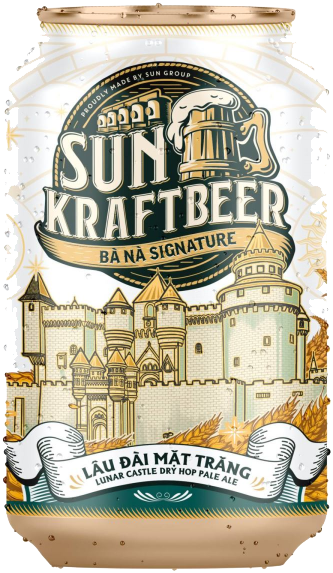
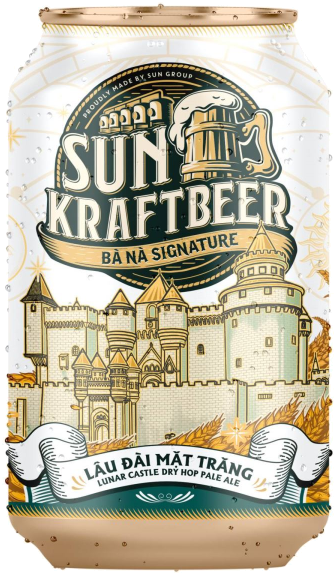
Lon bia xoay lac luan phien, sua tach nen lon Lau Dai
Ba loai tu doi cho nhau moi 4,6 giay. Doi loai thi lon quay mot vong,
anh duoc thay dung luc lon quay ngang nen khong thay anh nhay khung.
Bam the chon tay thi dung vong tu dong.

Anh lon giua man hinh tach thanh bon lop, MOI LOP MOT NGUON transform:
nghieng theo con tro (rAF), hien len, lac, quay. Truoc day .dn-ly vua
mang hoat anh CSS vua nhan transform tu vong rAF — hoat anh luon de
style, nen phan nghieng theo con tro chua tung chay.

Lon Lau Dai Mat Trang bi tach nen an mat ria: than lon trang, cho sang
nhat chi 246 so voi nen 255, ma nguong mac dinh la 236. Chay lai voi
--nguong=250 --vien=250, lon giu du dang.

Da kiem tra tren trinh duyet: bon lop dung hoat anh, .dn-ly khong con
hoat anh CSS, ba anh tai duoc, vong luan phien dung thu tu moi 4,58s,
cu xoay bat sau 92ms va thay anh o 373ms.

diff --git a/src/components/ManHinhDangNhap.tsx b/src/components/ManHinhDangNhap.tsx
@@ -286,6 +286,17 @@ export default function ManHinhDangNhap({
     laudai: false,
     atlas: false,
   });
+  /**
+   * Loại ĐANG HIỆN trên màn hình, chạy sau `loai` đúng nửa nhịp xoay.
+   *
+   * Tách khỏi `loai` để đổi ảnh vào đúng lúc lon quay ngang, gần như không
+   * nhìn thấy mặt lon — đổi ngay lúc bấm thì thấy ảnh nhảy khựng một cái.
+   */
+  const [loaiHien, setLoaiHien] = useState<LoaiBia>("caubang");
+  const [dangXoay, setDangXoay] = useState(false);
+  /** Vòng luân phiên tự động, người dùng tự bấm chọn thì dừng. */
+  const [tuDong, setTuDong] = useState(true);
+  const lanDau = useRef(true);
   const nenRef = useRef<HTMLDivElement>(null);
   const lyRef = useRef<HTMLDivElement>(null);
   const lopTruocRef = useRef<HTMLDivElement>(null);
@@ -293,6 +304,50 @@ export default function ManHinhDangNhap({
   const botRef = useRef<HTMLDivElement>(null);
 
   const mau = MAU_BIA[loai];
+
+  /*
+   * Ba loại bia luân phiên, mỗi loại một nhịp rồi chuyển.
+   *
+   * Bỏ nhịp khi tab bị ẩn: quay ở tab người ta không nhìn chỉ tốn pin, mà quay
+   * xong quay lại thì loại đang hiện đã trôi đi đâu mất.
+   */
+  useEffect(() => {
+    if (!tuDong) return;
+    if (window.matchMedia("(prefers-reduced-motion: reduce)").matches) return;
+    const id = window.setInterval(() => {
+      if (document.hidden) return;
+      setLoai((cu) => {
+        const i = BIA.findIndex((b) => b.id === cu);
+        return BIA[(i + 1) % BIA.length].id;
+      });
+    }, 4600);
+    return () => window.clearInterval(id);
+  }, [tuDong]);
+
+  /*
+   * Đổi loại thì quay lon một vòng, thay ảnh vào giữa cú quay.
+   *
+   * Chỉ phụ thuộc `loai` chứ không phụ thuộc `loaiHien`: thêm `loaiHien` vào
+   * thì effect chạy lại ngay sau khi thay ảnh, và phần dọn dẹp sẽ hủy mất hẹn
+   * giờ tắt hiệu ứng, lon kẹt lại giữa cú quay.
+   */
+  useEffect(() => {
+    if (lanDau.current) {
+      lanDau.current = false;
+      return;
+    }
+    if (window.matchMedia("(prefers-reduced-motion: reduce)").matches) {
+      setLoaiHien(loai);
+      return;
+    }
+    setDangXoay(true);
+    const giua = window.setTimeout(() => setLoaiHien(loai), 330);
+    const xong = window.setTimeout(() => setDangXoay(false), 680);
+    return () => {
+      window.clearTimeout(giua);
+      window.clearTimeout(xong);
+    };
+  }, [loai]);
 
   /** Bọt bia bay lên: sinh liên tục rồi tự dọn khi bay hết màn hình. */
   useEffect(() => {
@@ -522,17 +577,27 @@ export default function ManHinhDangNhap({
           className="dn-ly h-[58vh] max-h-[560px] w-auto"
           style={{ aspectRatio: "280 / 400" }}
         >
-          {anhHong[loai] ? (
-            <LyBia loai={loai} />
-          ) : (
-            <img
-              src={ANH_LON[loai]}
-              alt={`Lon ${BIA.find((b) => b.id === loai)?.ten ?? ""}`}
-              className="h-full w-full object-contain"
-              style={{ filter: "drop-shadow(0 30px 60px rgba(0,0,0,0.55))" }}
-              onError={() => setAnhHong((t) => ({ ...t, [loai]: true }))}
-            />
-          )}
+          {/* Ba lớp lồng nhau, mỗi lớp một chuyển động: hiện lên, lắc, quay khi
+              đổi loại. Phải tách vì hoạt ảnh CSS đè transform đặt bằng style —
+              gộp lại là mất phần nghiêng theo con trỏ mà vòng rAF ghi vào
+              `.dn-ly`. Xem chú thích trong index.css. */}
+          <div className="dn-vao">
+            <div className="dn-lac">
+              <div className={`dn-xoay ${dangXoay ? "dn-dang-xoay" : ""}`}>
+                {anhHong[loaiHien] ? (
+                  <LyBia loai={loaiHien} />
+                ) : (
+                  <img
+                    src={ANH_LON[loaiHien]}
+                    alt={`Lon ${BIA.find((b) => b.id === loaiHien)?.ten ?? ""}`}
+                    className="h-full w-full object-contain"
+                    style={{ filter: "drop-shadow(0 30px 60px rgba(0,0,0,0.55))" }}
+                    onError={() => setAnhHong((t) => ({ ...t, [loaiHien]: true }))}
+                  />
+                )}
+              </div>
+            </div>
+          </div>
         </div>
       </div>
 
@@ -638,7 +703,12 @@ export default function ManHinhDangNhap({
                   return (
                     <button
                       key={b.id}
-                      onClick={() => setLoai(b.id)}
+                      onClick={() => {
+                        // Đã chọn tay thì đừng để vòng tự động cướp mất sau
+                        // vài giây — người ta bấm là muốn xem đúng lon đó.
+                        setTuDong(false);
+                        setLoai(b.id);
+                      }}
                       className="dn-kinh group relative w-[124px] cursor-pointer rounded-[24px] p-3 pt-6 text-center transition-all duration-300"
                       style={{
                         borderColor: dangChon ? b.nhan : undefined,
@@ -675,7 +745,7 @@ export default function ManHinhDangNhap({
                 })}
               </div>
               <p className="text-[0.7rem] uppercase tracking-[0.15em] text-white/50">
-                Chọn để đổi tông màn hình
+                {tuDong ? "Ba vị bia luân phiên · bấm để giữ lại" : "Bấm để đổi tông màn hình"}
               </p>
             </div>
 

diff --git a/src/index.css b/src/index.css
@@ -281,19 +281,71 @@
   to   { opacity: 1; transform: none; }
 }
 
-@keyframes dn-noi {
-  0%, 100% { transform: translateY(0); }
-  50%      { transform: translateY(-18px); }
+/*
+   Lon giữa màn hình chồng bốn lớp, MỖI LỚP GIỮ ĐÚNG MỘT NGUỒN transform:
+
+     .dn-ly    nghiêng theo con trỏ, do vòng requestAnimationFrame ghi thẳng
+     .dn-vao   hiện lên lúc mới vào trang
+     .dn-lac   lắc và nổi lên xuống không ngừng
+     .dn-xoay  quay một vòng mỗi khi đổi loại bia
+
+   Phải tách ra vì hoạt ảnh CSS luôn ĐÈ transform đặt bằng style. Trước đây
+   `.dn-ly` vừa mang hoạt ảnh vừa nhận transform từ vòng rAF, nên phần nghiêng
+   theo con trỏ không bao giờ hiện ra. */
+.dn-vao {
+  animation: dn-hien-len 1.2s ease-out 0.2s both;
+  height: 100%;
+  width: 100%;
 }
 
-.dn-ly {
-  animation: dn-hien-len 1.2s ease-out 0.2s both, dn-noi 6s ease-in-out 1.4s infinite;
+/* Lon lắc nhẹ không ngừng, như đang lơ lửng chứ không đứng chết một chỗ.
+   Gốc xoay đặt gần đáy lon để trông như lon đung đưa trên chân, không phải
+   xoay quanh giữa thân. */
+@keyframes dn-lac {
+  0%,
+  100% {
+    transform: rotate(-2.6deg) translateY(0);
+  }
+  50% {
+    transform: rotate(2.6deg) translateY(-16px);
+  }
+}
+.dn-lac {
+  animation: dn-lac 6.5s ease-in-out infinite;
+  transform-origin: 50% 88%;
+  height: 100%;
+  width: 100%;
+}
+
+/* Cú xoay khi đổi loại bia: lon quay nghiêng đi rồi quay lại.
+   Ảnh được thay đúng lúc lon quay ngang (mốc 50%, tức lúc gần như không nhìn
+   thấy mặt lon) nên không thấy ảnh nhảy, cũng không lộ mặt sau lật gương như
+   khi cho quay trọn 360 độ. */
+@keyframes dn-xoay-lon {
+  0% {
+    transform: perspective(1400px) rotateY(0) scale(1);
+  }
+  50% {
+    transform: perspective(1400px) rotateY(92deg) scale(0.94);
+  }
+  100% {
+    transform: perspective(1400px) rotateY(0) scale(1);
+  }
+}
+.dn-xoay {
+  height: 100%;
+  width: 100%;
+}
+.dn-xoay.dn-dang-xoay {
+  animation: dn-xoay-lon 0.66s cubic-bezier(0.62, 0.05, 0.32, 1);
 }
 
 /* Máy yếu hoặc người dùng tắt hiệu ứng thì bỏ hết chuyển động, giữ nguyên
    bố cục. Trang đăng nhập không được đánh đổi khả năng dùng lấy cái đẹp. */
 @media (prefers-reduced-motion: reduce) {
   .dn-bot { display: none; }
-  .dn-ly { animation: none; }
+  .dn-vao { animation: none; }
+  .dn-lac { animation: none; }
+  .dn-xoay.dn-dang-xoay { animation: none; }
   .dn-nen { transition: none; }
 }

diff --git a/scripts/tach-nen-anh-lon.py b/scripts/tach-nen-anh-lon.py
@@ -30,8 +30,13 @@ if hasattr(sys.stdout, "reconfigure"):
     sys.stdout.reconfigure(encoding="utf-8", errors="replace")
 
 # Coi là nền: cả ba kênh sáng từ mức này trở lên.
+#
+# Mặc định 236 hợp với lon có thân màu đậm. LON THÂN TRẮNG thì phải nâng lên
+# gần 250: chỗ sáng nhất của thân lon Lâu Đài Mặt Trăng chỉ tối hơn nền có vài
+# bậc (246 so với 255), để ngưỡng thấp là ăn mất luôn rìa lon, lon cụt mất dáng.
 NGUONG_NEN = 236
 # Dải viền pha: pixel sáng từ mức này trở lên và nằm sát nền thì cho mờ dần.
+# Đặt bằng ngưỡng nền là tắt hẳn, dùng cho lon thân trắng.
 NGUONG_VIEN = 170
 # Chừa quanh lon sau khi cắt, tính bằng pixel.
 LE = 2
@@ -117,7 +122,7 @@ def ghi_png(duong_dan, w, h, px):
     open(duong_dan, "wb").write(out)
 
 
-def tach_nen(w, h, px):
+def tach_nen(w, h, px, nguong_nen=NGUONG_NEN, nguong_vien=NGUONG_VIEN):
     """Loang từ biên, xóa nền trắng, làm mềm viền. Trả về số điểm đã xóa."""
     la_nen = bytearray(w * h)
     hang_doi = deque()
@@ -126,7 +131,7 @@ def tach_nen(w, h, px):
         if la_nen[i]:
             return
         r, g, b = px[i * 4], px[i * 4 + 1], px[i * 4 + 2]
-        if min(r, g, b) >= NGUONG_NEN:
+        if min(r, g, b) >= nguong_nen:
             la_nen[i] = 1
             hang_doi.append(i)
 
@@ -163,9 +168,11 @@ def tach_nen(w, h, px):
         )
         if not ke:
             continue
+        if nguong_vien >= nguong_nen:
+            continue
         sang = min(px[i * 4], px[i * 4 + 1], px[i * 4 + 2])
-        if sang >= NGUONG_VIEN:
-            mo[i] = int(255 * (NGUONG_NEN - sang) / (NGUONG_NEN - NGUONG_VIEN))
+        if sang >= nguong_vien:
+            mo[i] = int(255 * (nguong_nen - sang) / (nguong_nen - nguong_vien))
 
     for i in range(w * h):
         if la_nen[i]:
@@ -210,14 +217,23 @@ def lat_ngang(w, h, px):
 
 def main(doi_so):
     lat = "--lat" in doi_so
+    nen = NGUONG_NEN
+    vien = NGUONG_VIEN
+    for a in doi_so:
+        if a.startswith("--nguong="):
+            nen = int(a.split("=", 1)[1])
+            vien = min(vien, nen)
+        elif a.startswith("--vien="):
+            vien = int(a.split("=", 1)[1])
     cac_tep = [a for a in doi_so if not a.startswith("--")]
     if not cac_tep:
         raise SystemExit(
-            "Cách dùng: python scripts/tach-nen-anh-lon.py [--lat] <tệp.png>..."
+            "Cách dùng: python scripts/tach-nen-anh-lon.py "
+            "[--lat] [--nguong=N] [--vien=N] <tệp.png>..."
         )
     for tep in cac_tep:
         w, h, px = doc_png(tep)
-        xoa = tach_nen(w, h, px)
+        xoa = tach_nen(w, h, px, nen, vien)
         nw, nh, moi = cat_sat(w, h, px)
         if lat:
             moi = lat_ngang(nw, nh, moi)
